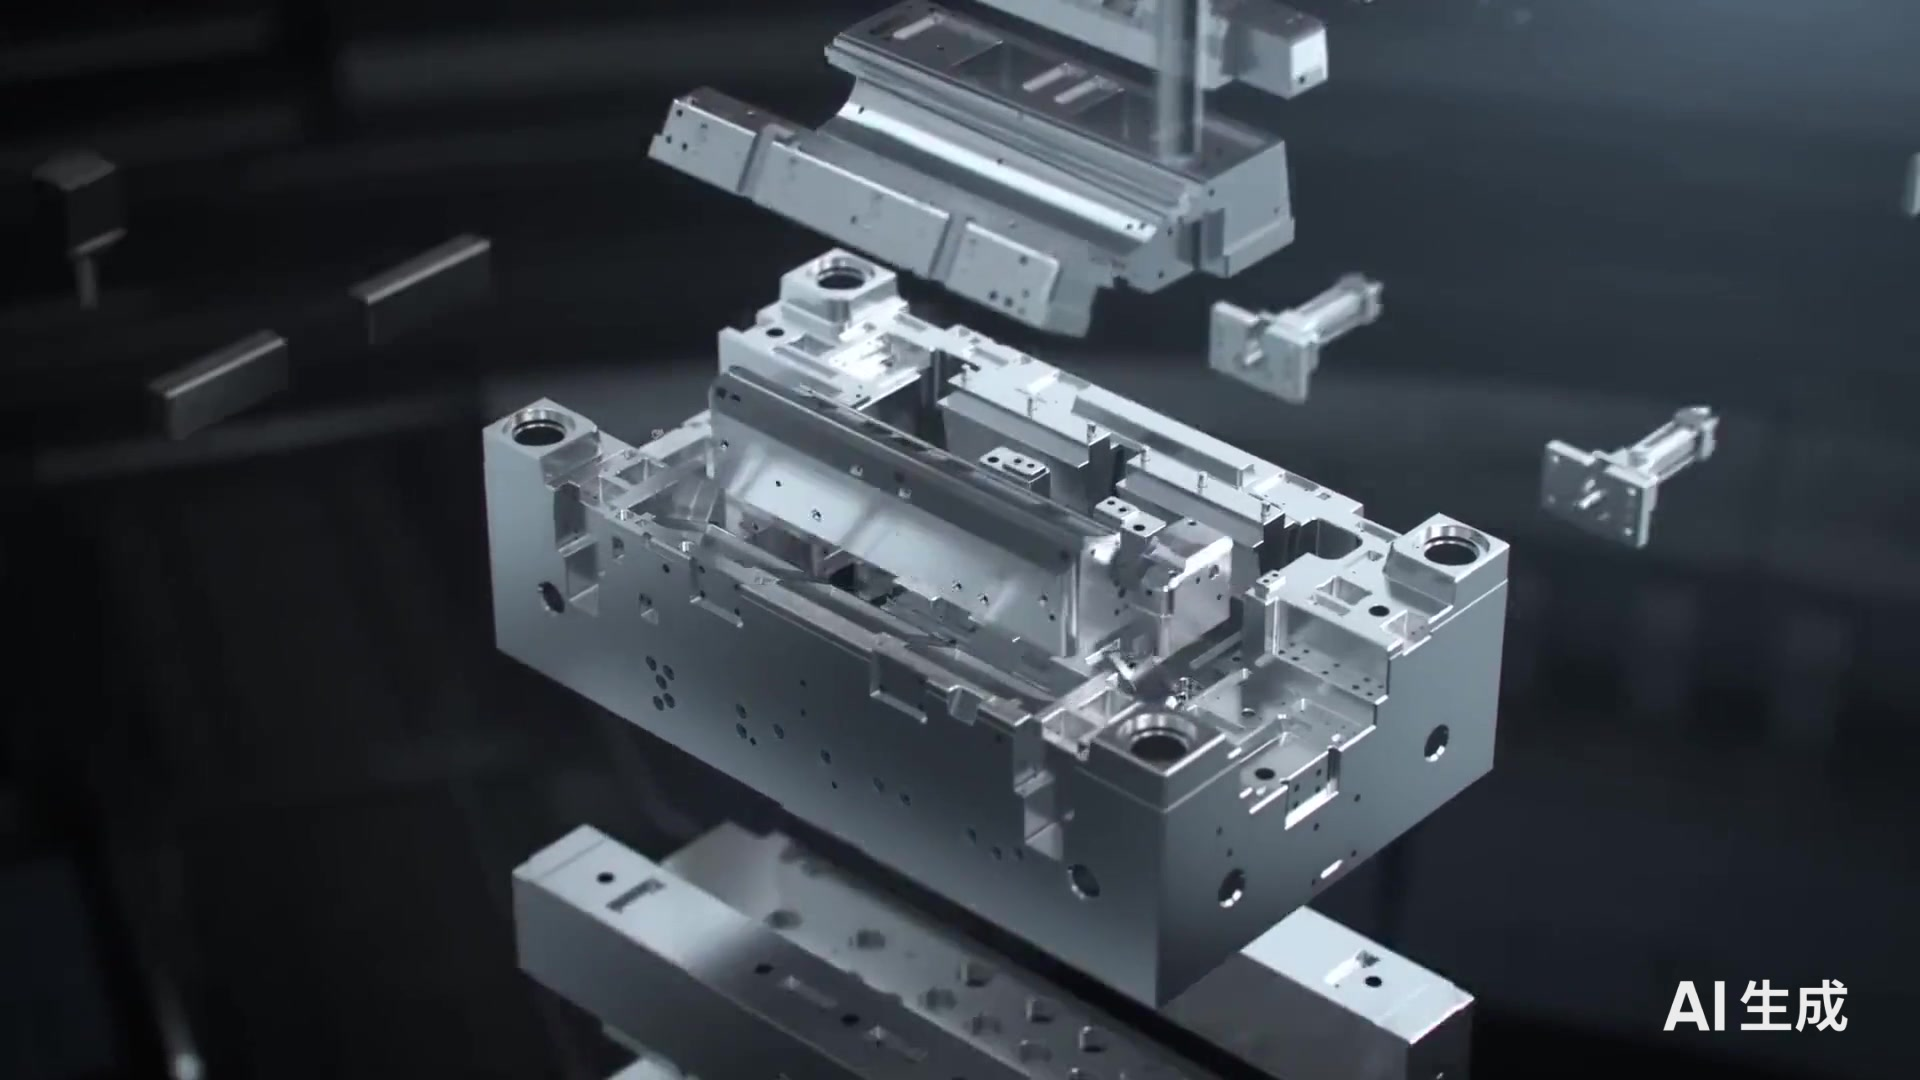
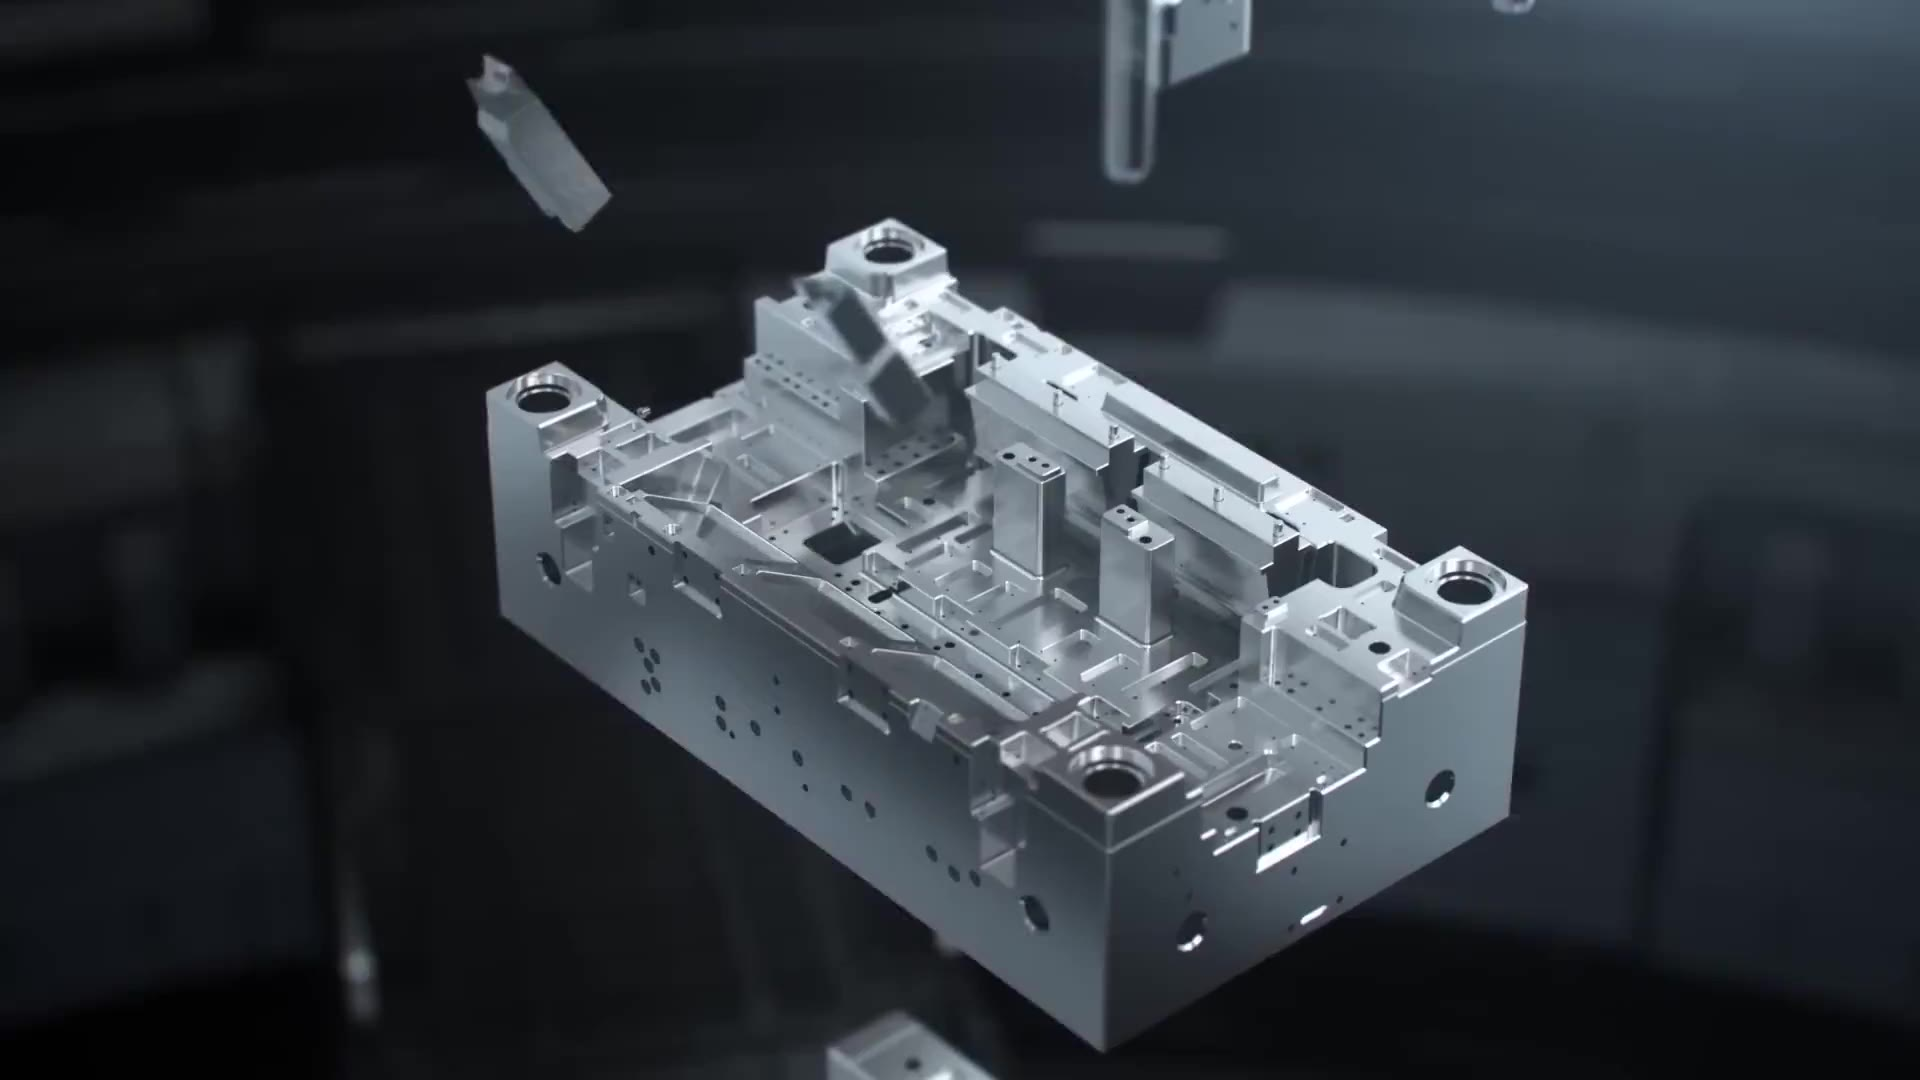
fix: 替换模具 hero poster 图，消除「AI 生成」水印
用户截图显示视频「最开始一帧」带水印——真凶是 poster 占位图 mold-hero-poster.jpg（右下角含「AI 生成」），视频 preload=none 时显示的就是它、与视频文件无关。用 1080p 原视频无水印首帧重新生成 poster（1920x1080，78KB）；index.html poster 加 ?v=2 破 CDN/浏览器缓存。旧 poster 备份于 _tools/backup/mold-hero-poster.orig-watermarked.jpg。

diff --git a/index.html b/index.html
@@ -1015,7 +1015,7 @@
          弱网 / prefers-reduced-motion / saveData 下不加载，仅展示 poster。
          muted 保留：autoplay 被移除后仍需静音属性，配合脚本 play() 才不会被浏览器拦截。
          loop 保留：脚本 play() 后循环播放是原设计效果。 -->
-    <video class="hero-video" muted loop playsinline preload="none" poster="images/mold-hero-poster.jpg">
+    <video class="hero-video" muted loop playsinline preload="none" poster="images/mold-hero-poster.jpg?v=2">
       <!-- 2026-10-05：移除 H.265 版 mold-hero-hv.mp4（含「AI 生成」水印，用户指令禁用）；统一播 H.264 原片。
            2026-10-05 压缩：原 1080p / 7266kbps / 11.76MB 重编码为 720p / 1120kbps / 1.91MB
            （画面内容完全一致，仅降码率），解决线上加载与播放卡顿。原片备份于工作区 _tools/backup/。
